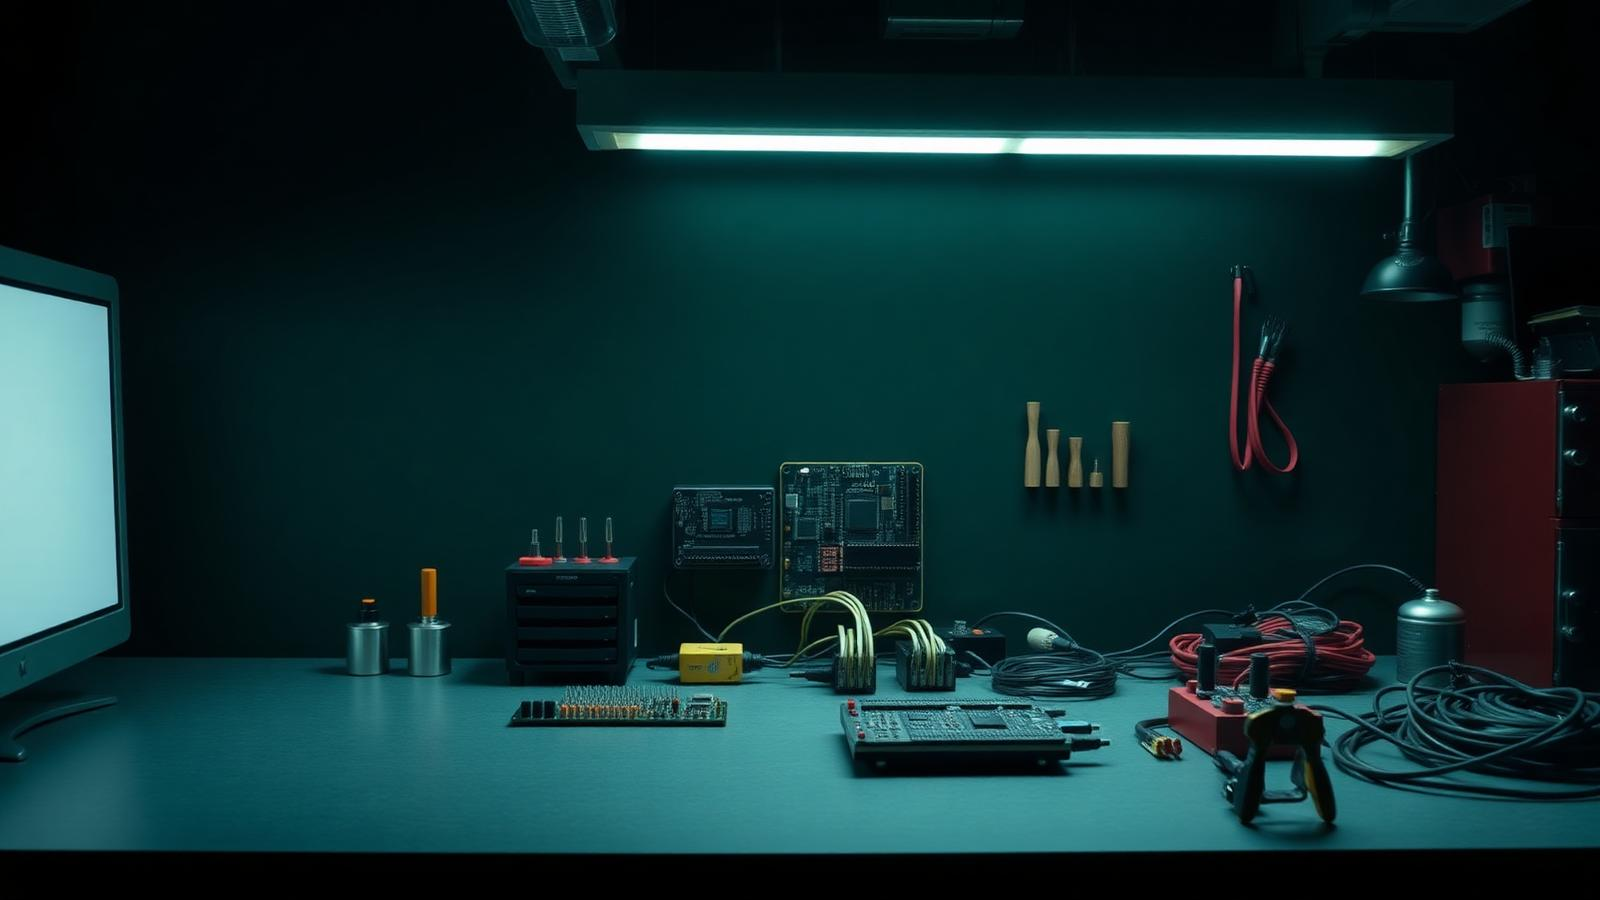
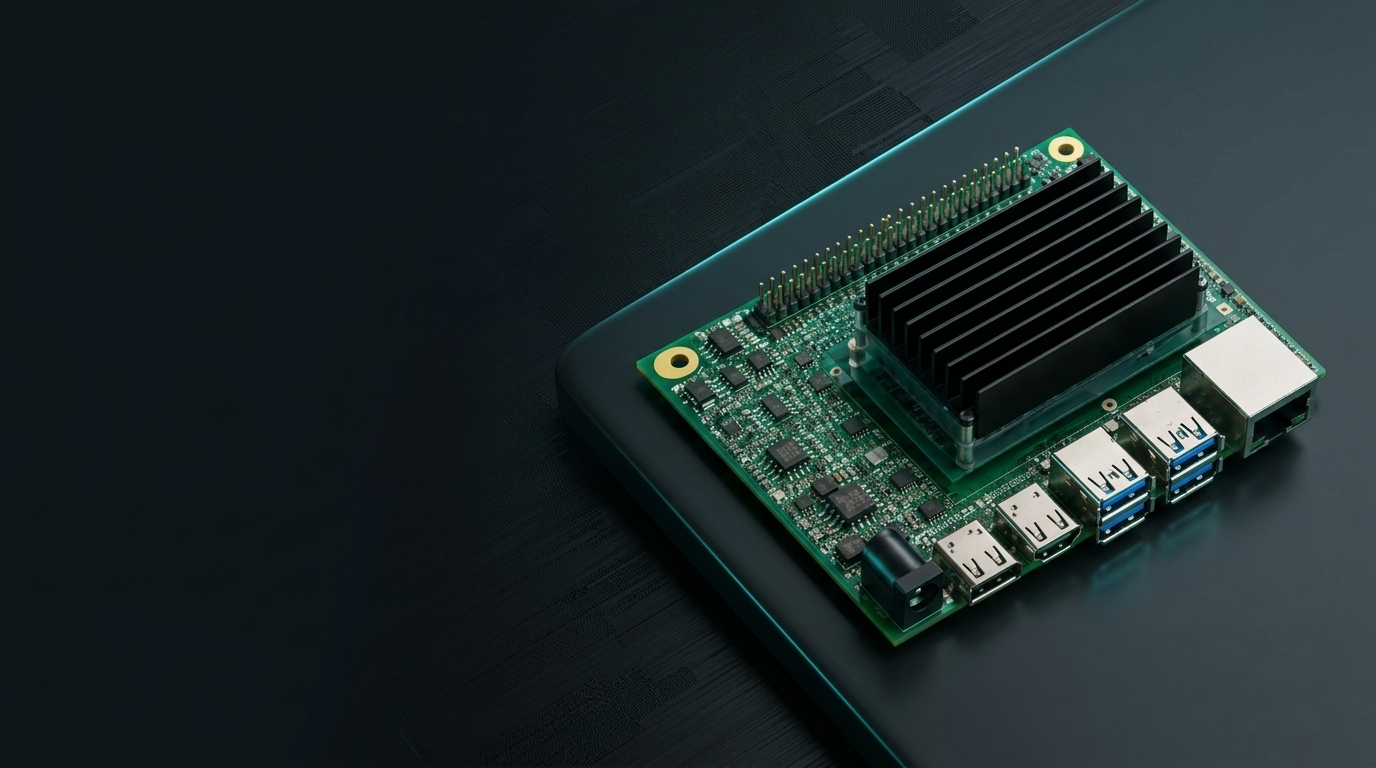
Update hero carousel layout, CTA buttons, interactive motion, and IoT slide image

diff --git a/src/components/home/Hero.tsx b/src/components/home/Hero.tsx
@@ -1,9 +1,9 @@
 import { useEffect, useRef, useState, useCallback } from "react";
 import { Link } from "@tanstack/react-router";
 import {
-  ArrowRight,
   ChevronLeft,
   ChevronRight,
+  Plus,
   ShieldCheck,
   Sparkles,
   Zap,
@@ -39,13 +39,14 @@ const slides = [
   },
 ];
 
-const AUTOPLAY_DELAY = 5000;
+const AUTOPLAY_DELAY = 5500;
 
 export function Hero() {
   const [index, setIndex] = useState(0);
   const [isPaused, setIsPaused] = useState(false);
-  const touchStartX = useRef<number | null>(null);
-  const touchEndX = useRef<number | null>(null);
+  const [isDragging, setIsDragging] = useState(false);
+  const [dragOffset, setDragOffset] = useState(0);
+  const dragStartX = useRef<number | null>(null);
 
   const nextSlide = useCallback(() => {
     setIndex((prev) => (prev + 1) % slides.length);
@@ -55,175 +56,212 @@ export function Hero() {
     setIndex((prev) => (prev - 1 + slides.length) % slides.length);
   }, []);
 
+  // Autoplay timer
   useEffect(() => {
-    if (isPaused) return;
+    if (isPaused || isDragging) return;
     const timer = setInterval(nextSlide, AUTOPLAY_DELAY);
     return () => clearInterval(timer);
-  }, [isPaused, nextSlide]);
+  }, [isPaused, isDragging, nextSlide]);
 
-  const handleTouchStart = (e: React.TouchEvent) => {
-    touchStartX.current = e.touches[0].clientX;
+  // Keyboard navigation
+  useEffect(() => {
+    const handleKeyDown = (e: KeyboardEvent) => {
+      if (e.key === "ArrowLeft") prevSlide();
+      if (e.key === "ArrowRight") nextSlide();
+    };
+    window.addEventListener("keydown", handleKeyDown);
+    return () => window.removeEventListener("keydown", handleKeyDown);
+  }, [nextSlide, prevSlide]);
+
+  // Pointer / Touch / Mouse Drag handlers
+  const handleDragStart = (clientX: number) => {
+    setIsDragging(true);
+    dragStartX.current = clientX;
+    setDragOffset(0);
   };
 
-  const handleTouchMove = (e: React.TouchEvent) => {
-    touchEndX.current = e.touches[0].clientX;
+  const handleDragMove = (clientX: number) => {
+    if (!isDragging || dragStartX.current === null) return;
+    const diff = clientX - dragStartX.current;
+    setDragOffset(diff);
   };
 
-  const handleTouchEnd = () => {
-    if (!touchStartX.current || !touchEndX.current) return;
-    const diff = touchStartX.current - touchEndX.current;
-    if (diff > 50) {
+  const handleDragEnd = () => {
+    if (!isDragging || dragStartX.current === null) return;
+    if (dragOffset < -60) {
       nextSlide();
-    } else if (diff < -50) {
+    } else if (dragOffset > 60) {
       prevSlide();
     }
-    touchStartX.current = null;
-    touchEndX.current = null;
+    setIsDragging(false);
+    dragStartX.current = null;
+    setDragOffset(0);
   };
 
   return (
-    <section className="relative py-4 sm:py-6 lg:py-8">
-      <div className="container-page">
-        {/* Full-width Slideshow Carousel Container */}
+    <section className="relative w-full overflow-hidden bg-slate-950 select-none">
+      {/* Full-width Slideshow Carousel Container */}
+      <div
+        className={`group relative min-h-[520px] sm:min-h-[580px] lg:min-h-[640px] w-full overflow-hidden ${
+          isDragging ? "cursor-grabbing" : "cursor-grab"
+        }`}
+        onMouseEnter={() => setIsPaused(true)}
+        onMouseLeave={() => {
+          setIsPaused(false);
+          if (isDragging) handleDragEnd();
+        }}
+        // Mouse drag events
+        onMouseDown={(e) => handleDragStart(e.clientX)}
+        onMouseMove={(e) => handleDragMove(e.clientX)}
+        onMouseUp={handleDragEnd}
+        // Touch swipe events
+        onTouchStart={(e) => handleDragStart(e.touches[0].clientX)}
+        onTouchMove={(e) => handleDragMove(e.touches[0].clientX)}
+        onTouchEnd={handleDragEnd}
+      >
+        {/* Horizontal Slide Track */}
         <div
-          className="group relative min-h-[540px] sm:min-h-[580px] lg:min-h-[620px] w-full overflow-hidden rounded-3xl lg:rounded-4xl border border-white/30 bg-slate-950 shadow-[0_25px_60px_-15px_rgba(0,0,0,0.4)]"
-          onMouseEnter={() => setIsPaused(true)}
-          onMouseLeave={() => setIsPaused(false)}
-          onTouchStart={handleTouchStart}
-          onTouchMove={handleTouchMove}
-          onTouchEnd={handleTouchEnd}
+          className={`flex h-full min-h-[520px] sm:min-h-[580px] lg:min-h-[640px] w-full ${
+            isDragging
+              ? "transition-none"
+              : "transition-transform duration-700 ease-[cubic-bezier(0.25,1,0.5,1)]"
+          }`}
+          style={{
+            transform: `translateX(calc(-${index * 100}% + ${dragOffset}px))`,
+          }}
         >
-          {/* Horizontal Slide Track */}
-          <div
-            className="flex h-full min-h-[540px] sm:min-h-[580px] lg:min-h-[620px] w-full transition-transform duration-700 ease-[cubic-bezier(0.25,1,0.5,1)]"
-            style={{ transform: `translateX(-${index * 100}%)` }}
-          >
-            {slides.map((slide, i) => (
+          {slides.map((slide, i) => {
+            const isActive = i === index;
+            return (
               <div
                 key={slide.slug}
-                className="relative flex h-full min-h-[540px] sm:min-h-[580px] lg:min-h-[620px] w-full shrink-0 flex-col justify-between p-6 sm:p-10 lg:p-14"
+                className="relative flex h-full min-h-[520px] sm:min-h-[580px] lg:min-h-[640px] w-full shrink-0 flex-col justify-between"
               >
-                {/* Slide Background Image */}
+                {/* Slide Background Image with Ken-Burns Motion */}
                 <div className="absolute inset-0 size-full overflow-hidden">
                   <img
                     src={slide.image}
                     alt={slide.title}
-                    className="size-full object-cover object-center lg:object-right transition-transform duration-1000 group-hover:scale-105"
-                  />
-                  {/* High-legibility Multi-Layer Gradients */}
-                  <div className="absolute inset-0 bg-gradient-to-r from-slate-950/95 via-slate-950/80 to-slate-950/30 sm:from-slate-950/90 sm:via-slate-950/65 sm:to-transparent" />
-                  <div className="absolute inset-0 bg-gradient-to-t from-slate-950/90 via-transparent to-black/25" />
-                  <div className="absolute inset-0 bg-[radial-gradient(ellipse_at_top_left,rgba(8,120,209,0.2),transparent_60%)]" />
-                </div>
-
-                {/* Main Content Overlay */}
-                <div className="relative z-10 max-w-2xl">
-                  {/* Eyebrow Pill */}
-                  <div className="inline-flex items-center gap-2 rounded-full border border-white/20 bg-white/10 px-4 py-1.5 text-xs font-extrabold uppercase tracking-[0.2em] text-cyan-300 shadow-sm backdrop-blur-xl">
-                    <span className="size-2 rounded-full bg-cyan-400 animate-ping" />
-                    {slide.eyebrow}
-                  </div>
-
-                  {/* Main Title */}
-                  <h1 className="mt-4 font-display text-3xl font-extrabold tracking-tight text-white sm:text-4xl lg:text-5xl lg:leading-[1.14] drop-shadow-md">
-                    {slide.title}
-                  </h1>
-
-                  {/* Description Copy */}
-                  <p className="mt-4 max-w-xl text-base leading-relaxed text-slate-200 sm:text-lg lg:text-xl drop-shadow-sm">
-                    {slide.copy}
-                  </p>
-
-                  {/* Micro Badges */}
-                  <div className="mt-6 flex flex-wrap items-center gap-2.5">
-                    <span className="inline-flex items-center gap-1.5 rounded-full border border-white/15 bg-slate-900/70 px-3.5 py-1.5 text-xs font-semibold text-white/95 shadow-sm backdrop-blur-md">
-                      <ShieldCheck className="size-3.5 text-emerald-400" />
-                      100% Genuine Stock
-                    </span>
-                    <span className="inline-flex items-center gap-1.5 rounded-full border border-white/15 bg-slate-900/70 px-3.5 py-1.5 text-xs font-semibold text-white/95 shadow-sm backdrop-blur-md">
-                      <Zap className="size-3.5 text-amber-400" />
-                      24h Colombo Dispatch
-                    </span>
-                    <span className="inline-flex items-center gap-1.5 rounded-full border border-white/15 bg-slate-900/70 px-3.5 py-1.5 text-xs font-semibold text-white/95 shadow-sm backdrop-blur-md">
-                      <Sparkles className="size-3.5 text-cyan-400" />
-                      Local Warranty
-                    </span>
-                  </div>
-
-                  {/* CTA Buttons */}
-                  <div className="mt-8 flex flex-wrap items-center gap-3.5">
-                    <Link
-                      to="/category/$slug"
-                      params={{ slug: slide.slug }}
-                      className="apple-btn-primary inline-flex min-h-12 items-center justify-center gap-2 rounded-full px-8 text-sm font-bold shadow-lg transition-transform hover:scale-105 active:scale-95"
-                    >
-                      {slide.cta}
-                      <ArrowRight className="size-4" aria-hidden />
-                    </Link>
-
-                    <Link
-                      to="/shop"
-                      className="inline-flex min-h-12 items-center justify-center rounded-full border border-white/30 bg-white/15 px-7 text-sm font-bold text-white shadow-sm backdrop-blur-md transition-all hover:bg-white/25 hover:scale-105 active:scale-95"
-                    >
-                      Browse All Products
-                    </Link>
-                  </div>
-                </div>
-
-                {/* Placeholder spacer for bottom bar alignment */}
-                <div className="h-12" />
-              </div>
-            ))}
-          </div>
-
-          {/* Persistent Floating Controls Overlay (Fixed at bottom of hero card) */}
-          <div className="absolute inset-x-0 bottom-0 z-20 flex flex-wrap items-center justify-between gap-4 border-t border-white/10 bg-gradient-to-t from-slate-950/80 to-transparent p-6 sm:px-10 lg:px-14">
-            {/* Slide Indicators / Dots */}
-            <div className="flex items-center gap-3">
-              <div className="flex items-center gap-2 rounded-full border border-white/20 bg-slate-900/70 p-1.5 backdrop-blur-md shadow-md">
-                {slides.map((_, i) => (
-                  <button
-                    key={i}
-                    type="button"
-                    aria-label={`Go to slide ${i + 1}`}
-                    onClick={() => setIndex(i)}
-                    className={`h-2.5 rounded-full transition-all duration-300 ${
-                      i === index
-                        ? "w-8 bg-blue-500 shadow-[0_0_14px_rgba(59,130,246,0.9)]"
-                        : "w-2.5 bg-white/40 hover:bg-white/80"
+                    draggable={false}
+                    className={`size-full object-cover object-center lg:object-right transition-transform duration-[6000ms] ease-out ${
+                      isActive ? "scale-108" : "scale-100"
                     }`}
                   />
-                ))}
-              </div>
-              <span className="text-xs font-bold text-white/80">
-                0{index + 1} / 0{slides.length}
-              </span>
-            </div>
+                  {/* High-legibility Multi-Layer Dark Gradients for Text Clarity */}
+                  <div className="absolute inset-0 bg-gradient-to-r from-slate-950/95 via-slate-950/85 to-slate-950/40 sm:from-slate-950/95 sm:via-slate-950/70 sm:to-transparent" />
+                  <div className="absolute inset-0 bg-gradient-to-t from-slate-950/95 via-slate-950/30 to-slate-950/50" />
+                  <div className="absolute inset-0 bg-[radial-gradient(ellipse_at_top_left,rgba(8,120,209,0.25),transparent_65%)]" />
+                </div>
 
-            {/* Prev / Next Slide Arrows */}
-            <div className="flex items-center gap-2">
-              <button
-                type="button"
-                aria-label="Previous slide"
-                onClick={prevSlide}
-                className="grid size-10 place-items-center rounded-full border border-white/20 bg-slate-900/70 text-white shadow-md backdrop-blur-md transition-all hover:bg-white/25 hover:scale-105 active:scale-90"
-              >
-                <ChevronLeft className="size-4" aria-hidden />
-              </button>
-              <button
-                type="button"
-                aria-label="Next slide"
-                onClick={nextSlide}
-                className="grid size-10 place-items-center rounded-full border border-white/20 bg-slate-900/70 text-white shadow-md backdrop-blur-md transition-all hover:bg-white/25 hover:scale-105 active:scale-90"
-              >
-                <ChevronRight className="size-4" aria-hidden />
-              </button>
+                {/* Main Content Overlay Container */}
+                <div className="container-page relative z-10 flex flex-col justify-center pt-12 sm:pt-16 lg:pt-20 pb-24 sm:pb-28">
+                  <div className="max-w-2xl">
+                    {/* Eyebrow Pill */}
+                    <div className="inline-flex items-center gap-2 rounded-full border border-cyan-400/30 bg-cyan-950/50 px-4 py-1.5 text-xs font-extrabold uppercase tracking-[0.2em] text-cyan-300 shadow-sm backdrop-blur-xl">
+                      <span className="size-2 rounded-full bg-cyan-400 animate-pulse" />
+                      {slide.eyebrow}
+                    </div>
+
+                    {/* Main Title */}
+                    <h1 className="mt-4 font-display text-3xl font-extrabold tracking-tight text-white sm:text-5xl lg:text-6xl lg:leading-[1.12] drop-shadow-md">
+                      {slide.title}
+                    </h1>
+
+                    {/* Description Copy */}
+                    <p className="mt-4 max-w-xl text-base leading-relaxed text-slate-200 sm:text-lg lg:text-xl drop-shadow-sm font-normal">
+                      {slide.copy}
+                    </p>
+
+                    {/* Micro Badges Row */}
+                    <div className="mt-6 flex flex-wrap items-center gap-2.5">
+                      <span className="inline-flex items-center gap-1.5 rounded-full border border-white/20 bg-slate-900/80 px-3.5 py-1.5 text-xs sm:text-sm font-medium text-white/95 shadow-sm backdrop-blur-md">
+                        <ShieldCheck className="size-4 text-emerald-400" />
+                        100% Genuine Stock
+                      </span>
+                      <span className="inline-flex items-center gap-1.5 rounded-full border border-white/20 bg-slate-900/80 px-3.5 py-1.5 text-xs sm:text-sm font-medium text-white/95 shadow-sm backdrop-blur-md">
+                        <Zap className="size-4 text-amber-400" />
+                        24h Colombo Dispatch
+                      </span>
+                      <span className="inline-flex items-center gap-1.5 rounded-full border border-white/20 bg-slate-900/80 px-3.5 py-1.5 text-xs sm:text-sm font-medium text-white/95 shadow-sm backdrop-blur-md">
+                        <Sparkles className="size-4 text-cyan-400" />
+                        Local Warranty
+                      </span>
+                    </div>
+
+                    {/* CTA Buttons */}
+                    <div className="mt-8 flex flex-wrap items-center gap-4">
+                      <Link
+                        to="/category/$slug"
+                        params={{ slug: slide.slug }}
+                        className="inline-flex min-h-12 items-center justify-center gap-2.5 rounded-full bg-[#0878D1] hover:bg-[#0768b5] px-8 text-sm sm:text-base font-bold text-white shadow-lg shadow-blue-500/30 transition-all duration-200 hover:scale-105 active:scale-95 cursor-pointer"
+                      >
+                        {slide.cta}
+                        <Plus className="size-4.5 stroke-[2.5]" aria-hidden />
+                      </Link>
+
+                      <Link
+                        to="/shop"
+                        className="inline-flex min-h-12 items-center justify-center rounded-full border border-white/30 bg-white/10 px-7 text-sm sm:text-base font-bold text-white shadow-sm backdrop-blur-md transition-all duration-200 hover:bg-white/20 hover:scale-105 active:scale-95 cursor-pointer"
+                      >
+                        Browse All Products
+                      </Link>
+                    </div>
+                  </div>
+                </div>
+              </div>
+            );
+          })}
+        </div>
+
+        {/* Persistent Floating Controls Overlay (Aligned with page container) */}
+        <div className="container-page absolute inset-x-0 bottom-0 z-20 flex items-center justify-between py-6 sm:py-8 pointer-events-none">
+          {/* Slide Indicators / Dots */}
+          <div className="flex items-center gap-3 pointer-events-auto">
+            <div className="flex items-center gap-2 rounded-full border border-white/20 bg-slate-900/80 p-1.5 backdrop-blur-md shadow-md">
+              {slides.map((_, i) => (
+                <button
+                  key={i}
+                  type="button"
+                  aria-label={`Go to slide ${i + 1}`}
+                  onClick={() => setIndex(i)}
+                  className={`h-2.5 rounded-full transition-all duration-300 cursor-pointer ${
+                    i === index
+                      ? "w-8 bg-[#0878D1] shadow-[0_0_12px_rgba(8,120,209,0.9)]"
+                      : "w-2.5 bg-white/40 hover:bg-white/80"
+                  }`}
+                />
+              ))}
             </div>
+            <span className="text-xs sm:text-sm font-bold tracking-wide text-white/90 drop-shadow">
+              0{index + 1} / 0{slides.length}
+            </span>
+          </div>
+
+          {/* Prev / Next Slide Navigation Arrows */}
+          <div className="flex items-center gap-2 pointer-events-auto">
+            <button
+              type="button"
+              aria-label="Previous slide"
+              onClick={prevSlide}
+              className="grid size-10 sm:size-11 place-items-center rounded-full border border-white/20 bg-slate-900/80 text-white shadow-md backdrop-blur-md transition-all hover:bg-white/25 hover:scale-105 active:scale-90 cursor-pointer"
+            >
+              <ChevronLeft className="size-5" aria-hidden />
+            </button>
+            <button
+              type="button"
+              aria-label="Next slide"
+              onClick={nextSlide}
+              className="grid size-10 sm:size-11 place-items-center rounded-full border border-white/20 bg-slate-900/80 text-white shadow-md backdrop-blur-md transition-all hover:bg-white/25 hover:scale-105 active:scale-90 cursor-pointer"
+            >
+              <ChevronRight className="size-5" aria-hidden />
+            </button>
           </div>
         </div>
       </div>
     </section>
   );
 }
+
+
 
 
